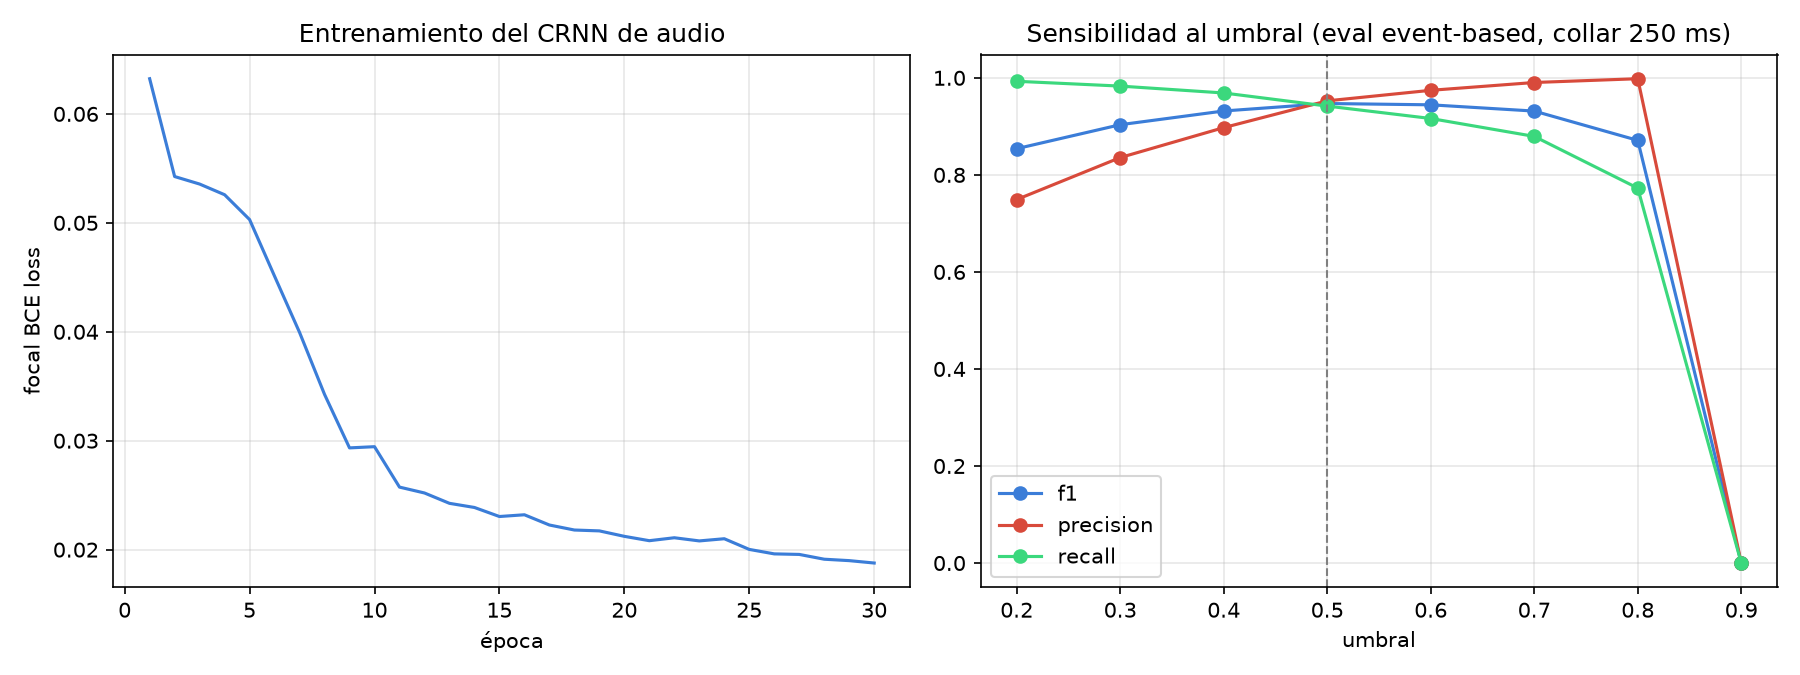
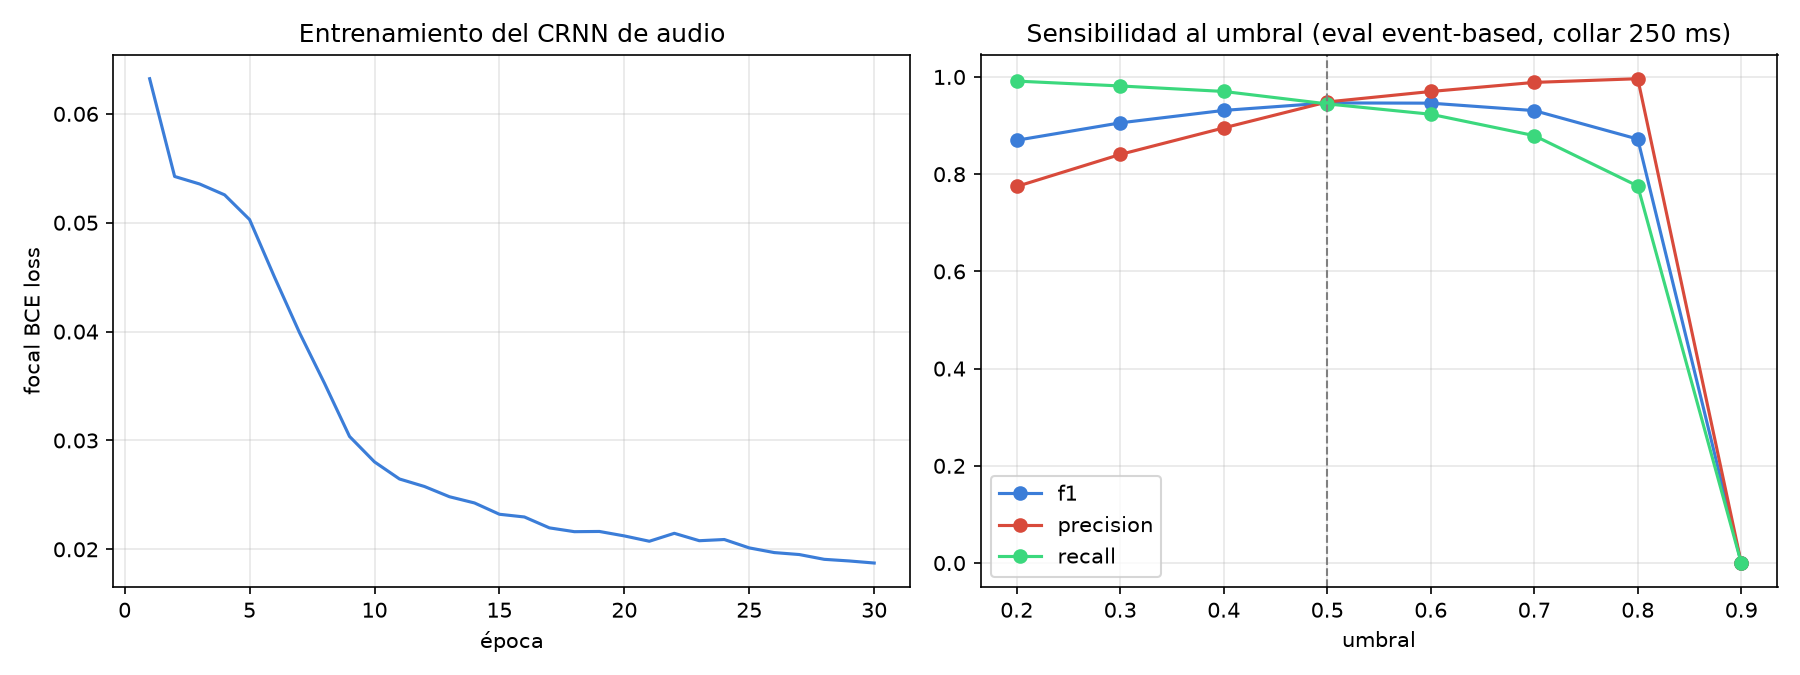
docs: audio re-medido con su script (F1 0,957) y la bitacora de la limpieza
La media de 3 ejecuciones del detector de audio, ahora escrita por
evidence_audio_detector.py: F1 0,9566 con umbral 0,5 (antes 0,9564, agregado
a mano), misma precision (0,969) y recall (0,945); 0,5 sigue siendo el
mejor umbral. La bitacora recoge cada cifra re-medida, antes y despues, con
su causa.

diff --git a/docs/experiments.md b/docs/experiments.md
@@ -1786,3 +1786,38 @@ validación del clasificador y el modelo de producción.
   demo que dejaba fuera un rally. Las tablas no cambian: usan modelos por torneo.
 - Los scripts de evidencias ejecutaban el experimento entero al pedirles
   `--help`; ahora todos leen sus argumentos.
+
+### Resultado: la caché regenerada y todo re-medido
+
+Caché regenerada con el reinicio (99 rallies, 54 min): 78 rallies idénticos, 17
+con diferencias de unos pocos frames y 3 con la numeración de jugadores rota
+(VIGO_11 95% de los frames, BRUSSEL_01 83%, MADRID_10 96%). Con ella, y desde
+commits limpios:
+
+| Cifra | Antes | Ahora | Causa |
+|---|---|---|---|
+| Detección por audio, F1 (media de 3) | 0,956 | 0,957 | la media se calculaba a mano; ahora la escribe el script |
+| Asignación, jugador / equipo | 89,65 / 95,30 % | 87,46 / 92,16 % | configuración del sistema (ver arriba) |
+| Tipo de golpe, accuracy / macro-F1 | 81,84 % / 0,847 | 81,98 % / 0,852 | se midió el 21 sep con la ventana de voto ±6; ahora ±4 y caché corregida |
+| Cadena: jugador / equipo (VIGO) | 79,9 / 89,2 % | 86,5 / 92,0 % | VIGO_11: 20/43 → 39/43; ningún otro rally de VIGO cambia |
+| Cadena: tipo / detectado y bien tipo | 83,7 / 80,3 % | 83,9 / 80,5 % | caché corregida |
+| Cadena: todo correcto (VIGO) | 68,5 % | 75,5 % | VIGO_11 |
+| Pelota, F1 | 0,94 | 0,915 | antes a ~60 px y 512×288; ahora a 15 px en 1080p y a la resolución del sistema (error mediano 8 px) |
+
+El clasificador, la asignación y la pelota se ejecutaron dos o tres veces con
+resultados idénticos: son reproducibles. El audio no lo es bit a bit en GPU (una
+ejecución suelta varía ~0,005), por eso se cita la media de 3.
+
+**Los pesos de clase, revisados.** La justificación de entrenar sin pesos
+(«ponderar empeora incluso el saque», macro-F1 0,786 frente a 0,812) se midió
+antes de la regla del saque. Con la regla, las tres variantes quedan dentro del
+ruido: macro-F1 0,852 sin pesos, 0,846 con potencia 0,5 y 0,854 con frecuencia
+inversa. El sistema sigue sin pesos (cambiarlo por 0,002 sería elegir por
+ruido); lo que protege al saque es la regla: su precisión pasa de 0,761 a 1,000
+con el mismo recall (0,905). `evidence_shot_classifier.py` mide las tres
+variantes en cada ejecución.
+
+También se reexportaron los 12 puntos de la web con el audio y el clasificador
+de producción nuevos, y se liberaron 66 GB de datos que ya no usa nada
+(PADELVIC, YouTube, cachés del enfoque viejo, datasets de pista; la caché de la
+pelota se regenera con el comando del README).

diff --git a/docs/sistema.md b/docs/sistema.md
@@ -25,7 +25,7 @@ detección binaria y no clasifica el gesto.
 ```
 Vídeo (mp4 con audio)
    │
-   ├─1─ AUDIO ──────────► CRNN ──────────► instantes de golpe        F1 0,956
+   ├─1─ AUDIO ──────────► CRNN ──────────► instantes de golpe        F1 0,957
    │
    ├─2─ IMAGEN ─────────► YOLO26-pose ───► esqueletos + identidad J1-J4
    │                      + máscara de pista + re-identificación
@@ -62,10 +62,10 @@ gratis.
 
 **De dónde sale.** Reimplementado del paper de Decorte et al. (arquitectura
 SED-net adaptada). **Se probó primero el camino propio** —detectar el golpe por
-pose y trayectoria de pelota— y se descartó midiéndolo: F1 0,821 frente a 0,956
+pose y trayectoria de pelota— y se descartó midiéndolo: F1 0,821 frente a 0,957
 del audio sobre los mismos datos.
 
-**Resultado:** F1 **0,956** (el paper reporta 0,92).
+**Resultado:** F1 **0,957** (el paper reporta 0,92).
 
 ### Paso 2 — Los jugadores
 
@@ -210,7 +210,7 @@ paper; el tipo de golpe usa el etiquetado propio.
 
 | Métrica | Este trabajo | Paper de referencia | Datos |
 |---|---|---|---|
-| Detección de golpes (F1) | **0,956** | 0,92 | CVSPORTS, 99 rallies (media de 3 ejecuciones); criterio de emparejamiento distinto, ver nota |
+| Detección de golpes (F1) | **0,957** | 0,92 | CVSPORTS, 99 rallies (media de 3 ejecuciones); criterio de emparejamiento distinto, ver nota |
 | Asignación — jugador | **87,46 %** | 83,70 % | CVSPORTS, VIGO, 319 golpes |
 | Asignación — equipo | **92,16 %** | 86,83 % | CVSPORTS, VIGO, 319 golpes |
 | Clasificación de tipo (accuracy) | **81,98 %** | *no lo hace* | etiquetado propio: 2.187 golpes de las 4 clases con jugador asignado, por torneos |
@@ -239,7 +239,7 @@ Cómo leer la comparación con el paper:
 - **Detección: mismo orden de magnitud, no una comparación exacta.** El paper
   empareja eventos por su inicio y su fin (métrica event-based de sed_eval) y
   promedia 4 particiones de los rallies; aquí se empareja por el instante del
-  golpe. Con criterios distintos, 0,956 frente a 0,92 no demuestra una mejora.
+  golpe. Con criterios distintos, 0,957 frente a 0,92 no demuestra una mejora.
 - **Tipo de golpe y pelota no se comparan con el paper**: el paper no
   clasifica golpes ni mide su detector de pelota en pádel. Solo se compara donde
   hay la misma prueba.
